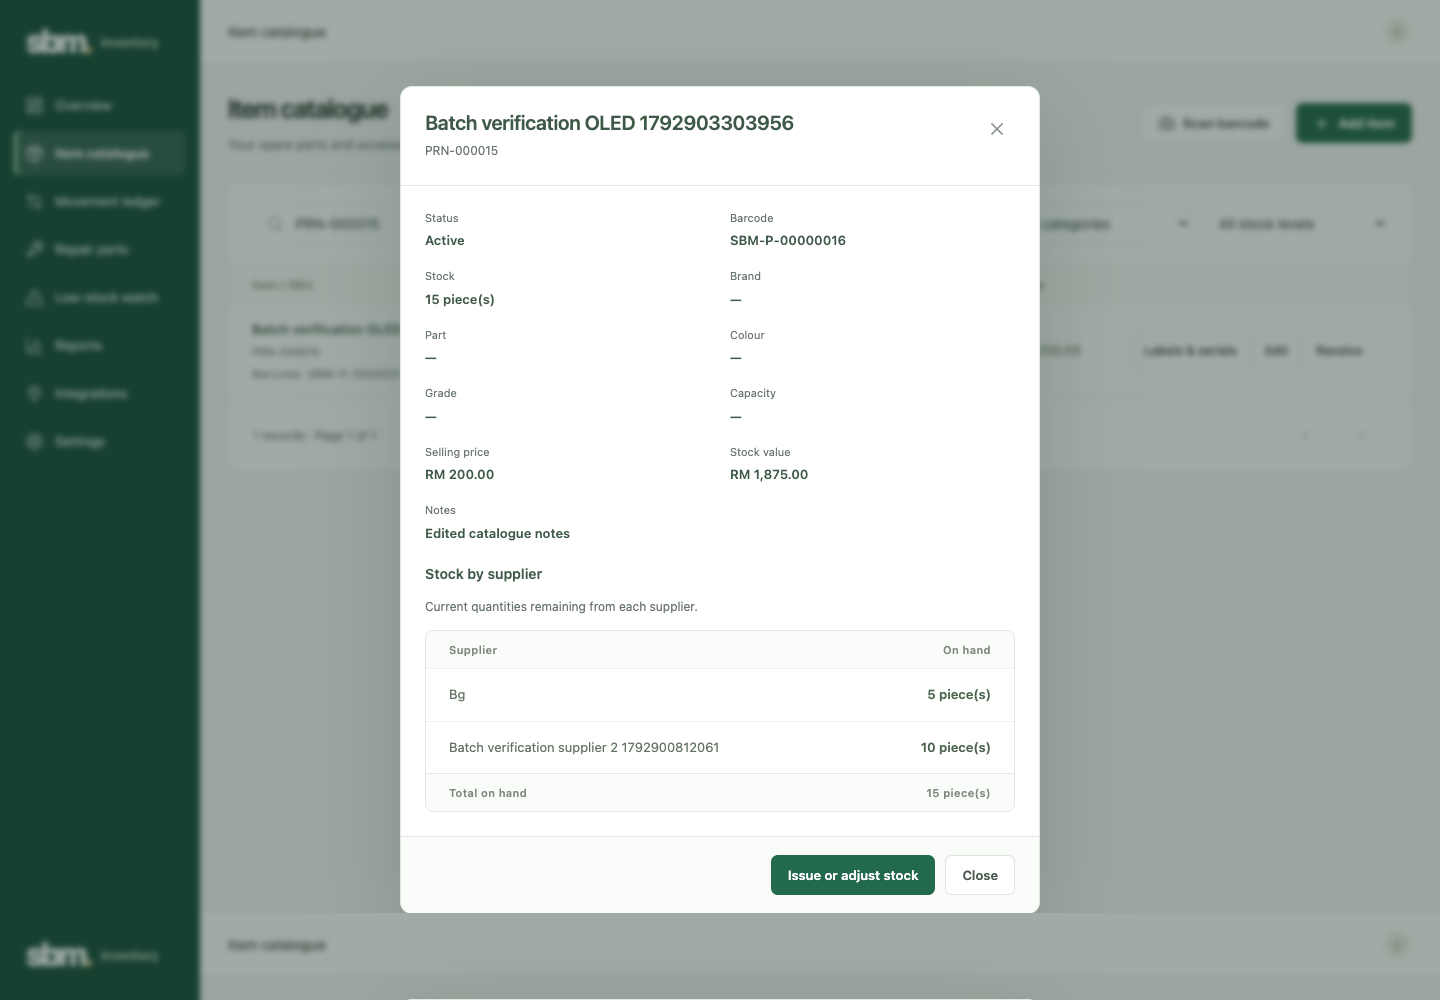
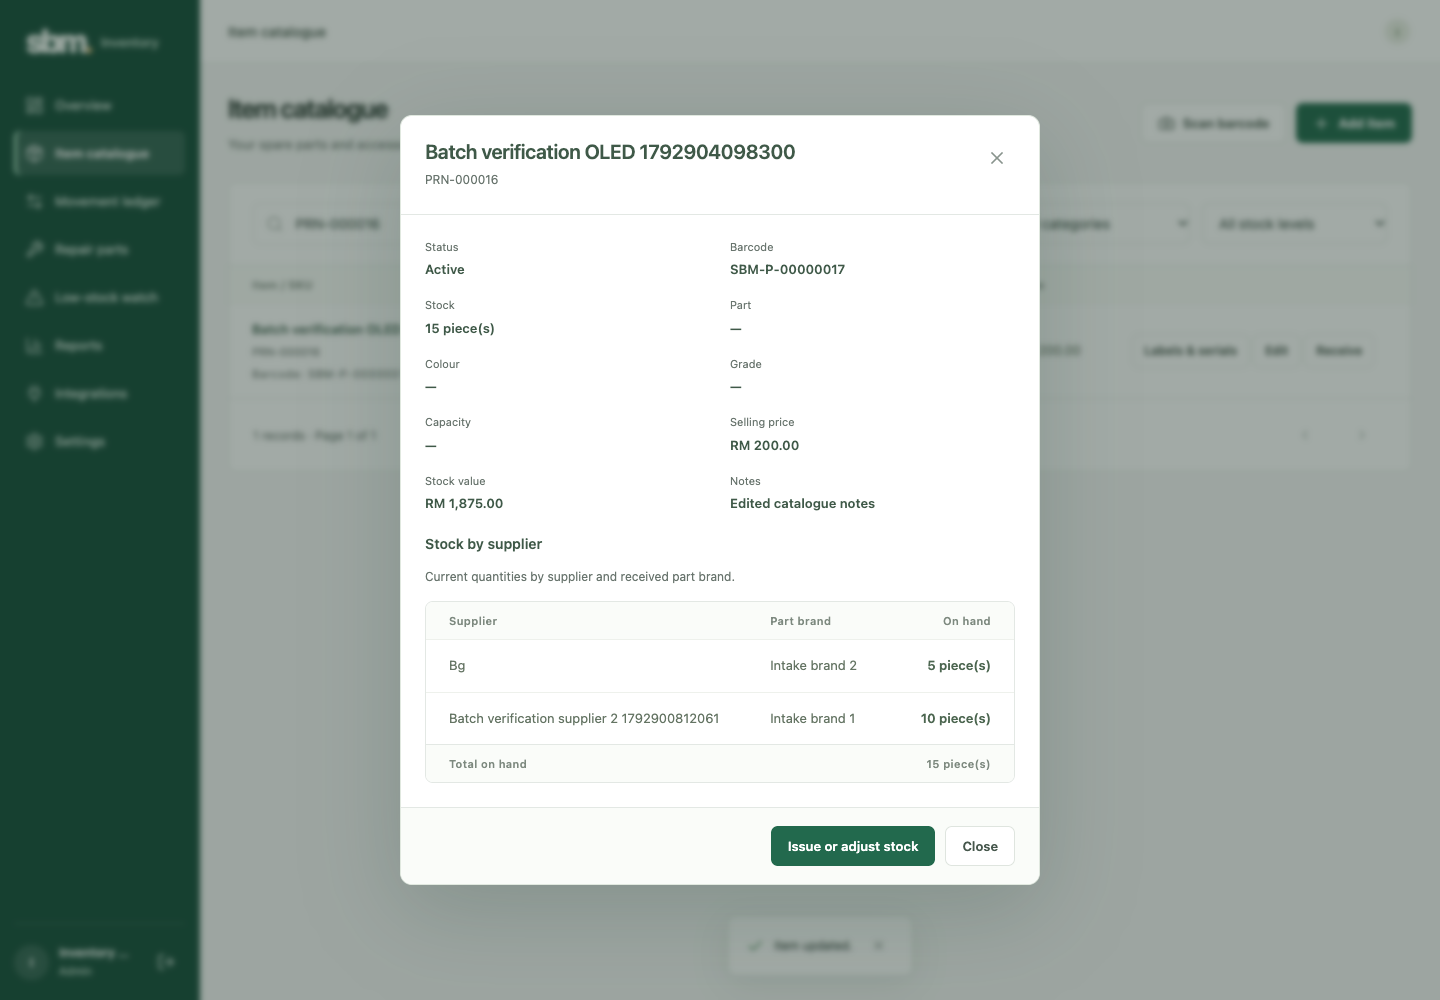
add brand in each supplier

diff --git a/frontend/src/components/ItemDetails.tsx b/frontend/src/components/ItemDetails.tsx
@@ -28,7 +28,6 @@ export function ItemDetails({
                 Status: product.active ? "Active" : "Inactive",
                 Barcode: product.barcode || "Not assigned",
                 Stock: `${product.stock} ${product.unit}(s)`,
-                Brand: product.brand,
                 Part: product.part_number,
                 Colour: product.colour,
                 Grade: product.grade,
@@ -48,7 +47,7 @@ export function ItemDetails({
             <section className="supplier-stock" aria-label="Stock by supplier">
               <h3>Stock by supplier</h3>
               <p className="muted">
-                Current quantities remaining from each supplier.
+                Current quantities by supplier and received part brand.
               </p>
               {product.supplier_stock.length ? (
                 <div className="table-scroll">
@@ -56,26 +55,35 @@ export function ItemDetails({
                     <thead>
                       <tr>
                         <th>Supplier</th>
+                        <th>Part brand</th>
                         <th>On hand</th>
                       </tr>
                     </thead>
                     <tbody>
-                      {product.supplier_stock.map((stock) => (
-                        <tr key={stock.supplier_id ?? "unknown"}>
-                          <td>
-                            {stock.supplier_name || "Supplier not recorded"}
-                          </td>
-                          <td>
-                            <strong>
-                              {stock.quantity} {product.unit}(s)
-                            </strong>
-                          </td>
-                        </tr>
-                      ))}
+                      {product.supplier_stock.flatMap((stock) =>
+                        stock.brands.map((entry) => (
+                          <tr
+                            key={JSON.stringify([
+                              stock.supplier_id,
+                              entry.brand,
+                            ])}
+                          >
+                            <td>
+                              {stock.supplier_name || "Supplier not recorded"}
+                            </td>
+                            <td>{entry.brand || "Brand not recorded"}</td>
+                            <td>
+                              <strong>
+                                {entry.quantity} {product.unit}(s)
+                              </strong>
+                            </td>
+                          </tr>
+                        )),
+                      )}
                     </tbody>
                     <tfoot>
                       <tr>
-                        <th>Total on hand</th>
+                        <th colSpan={2}>Total on hand</th>
                         <th>
                           {product.stock} {product.unit}(s)
                         </th>

diff --git a/frontend/e2e/stock-cost.spec.ts b/frontend/e2e/stock-cost.spec.ts
@@ -125,8 +125,14 @@ test("different intake suppliers retain their batch costs through FIFO usage and
       supplierStock.getByRole("row").filter({ hasText: suppliers[0].name }),
     ).toContainText("10 piece(s)");
     await expect(
+      supplierStock.getByRole("row").filter({ hasText: suppliers[0].name }),
+    ).toContainText("Intake brand 1");
+    await expect(
       supplierStock.getByRole("row").filter({ hasText: suppliers[1].name }),
     ).toContainText("5 piece(s)");
+    await expect(
+      supplierStock.getByRole("row").filter({ hasText: suppliers[1].name }),
+    ).toContainText("Intake brand 2");
     await expect(
       supplierStock.getByRole("row").filter({ hasText: "Total on hand" }),
     ).toContainText("15 piece(s)");
@@ -170,6 +176,9 @@ test("different intake suppliers retain their batch costs through FIFO usage and
     await expect(
       supplierStock.getByRole("row").filter({ hasText: suppliers[1].name }),
     ).toContainText("3 piece(s)");
+    await expect(
+      supplierStock.getByRole("row").filter({ hasText: suppliers[1].name }),
+    ).toContainText("Intake brand 2");
     await expect(
       supplierStock.getByRole("row").filter({ hasText: "Total on hand" }),
     ).toContainText("3 piece(s)");

diff --git a/frontend/e2e/barcode.spec.ts b/frontend/e2e/barcode.spec.ts
@@ -136,7 +136,12 @@ async function setup(
       body = {
         ...item,
         supplier_stock: [
-          { supplier_id: null, supplier_name: null, quantity: item.stock },
+          {
+            supplier_id: null,
+            supplier_name: null,
+            quantity: item.stock,
+            brands: [{ brand: null, quantity: item.stock }],
+          },
         ],
       };
     else if (route.request().method() === "POST")

diff --git a/frontend/src/api.ts b/frontend/src/api.ts
@@ -63,6 +63,7 @@ export type ItemDetail = Item & {
     supplier_id: number | null;
     supplier_name: string | null;
     quantity: number;
+    brands: { brand: string | null; quantity: number }[];
   }[];
 };
 export type Movement = {

diff --git a/backend/tests/Feature/StockCostTest.php b/backend/tests/Feature/StockCostTest.php
@@ -80,21 +80,38 @@ class StockCostTest extends TestCase
         $this->getJson('/api/v1/items/'.$this->item->id)->assertOk()
             ->assertJsonPath('stock', 7)
             ->assertJsonPath('supplier_stock', [
-                ['supplier_id' => $this->supplier->id, 'supplier_name' => 'Supplier A', 'quantity' => 1],
-                ['supplier_id' => $other->id, 'supplier_name' => 'Supplier B', 'quantity' => 4],
-                ['supplier_id' => null, 'supplier_name' => null, 'quantity' => 2],
+                ['supplier_id' => $this->supplier->id, 'supplier_name' => 'Supplier A', 'quantity' => 1, 'brands' => [['brand' => null, 'quantity' => 1]]],
+                ['supplier_id' => $other->id, 'supplier_name' => 'Supplier B', 'quantity' => 4, 'brands' => [['brand' => null, 'quantity' => 4]]],
+                ['supplier_id' => null, 'supplier_name' => null, 'quantity' => 2, 'brands' => [['brand' => null, 'quantity' => 2]]],
             ]);
         $this->record('manual_out', 1);
         $this->getJson('/api/v1/items/'.$this->item->id)->assertOk()
             ->assertJsonCount(2, 'supplier_stock')->assertJsonPath('supplier_stock.0.supplier_id', $other->id);
         $this->record('reversal', 4, ['movement_id' => $receiptB->id]);
         $this->getJson('/api/v1/items/'.$this->item->id)->assertOk()->assertJsonPath('stock', 2)
-            ->assertJsonPath('supplier_stock', [['supplier_id' => null, 'supplier_name' => null, 'quantity' => 2]]);
+            ->assertJsonPath('supplier_stock', [['supplier_id' => null, 'supplier_name' => null, 'quantity' => 2, 'brands' => [['brand' => null, 'quantity' => 2]]]]);
     }
 
     public function test_product_details_with_no_stock_have_an_empty_supplier_breakdown(): void
     {
         $this->getJson('/api/v1/items/'.$this->item->id)->assertOk()->assertJsonPath('stock', 0)->assertJsonPath('supplier_stock', []);
+    }
+
+    public function test_product_details_show_receipt_brands_per_supplier_and_remaining_quantities(): void
+    {
+        $other = Supplier::create(['name' => 'Supplier B']);
+        $this->record('receipt', 2, ['supplier_id' => $this->supplier->id, 'brand' => 'Brand A']);
+        $this->record('receipt', 3, ['supplier_id' => $this->supplier->id, 'brand' => 'Brand A']);
+        $this->record('receipt', 4, ['supplier_id' => $this->supplier->id, 'brand' => 'Brand B']);
+        $this->record('receipt', 1, ['supplier_id' => $other->id, 'brand' => 'Brand A']);
+        $issue = $this->record('manual_out', 3);
+        $this->getJson('/api/v1/items/'.$this->item->id)->assertOk()
+            ->assertJsonPath('supplier_stock.0.quantity', 6)
+            ->assertJsonPath('supplier_stock.0.brands', [['brand' => 'Brand A', 'quantity' => 2], ['brand' => 'Brand B', 'quantity' => 4]])
+            ->assertJsonPath('supplier_stock.1.brands', [['brand' => 'Brand A', 'quantity' => 1]]);
+        $this->record('reversal', 3, ['movement_id' => $issue->id]);
+        $this->getJson('/api/v1/items/'.$this->item->id)->assertOk()
+            ->assertJsonPath('supplier_stock.0.brands.0.quantity', 5);
     }
 
     public function test_fifo_spans_batches_and_records_exact_total_instead_of_rounding_a_unit_average(): void
@@ -220,7 +237,7 @@ class StockCostTest extends TestCase
         $this->getJson('/api/v1/items/'.$this->item->id.'/batches')->assertForbidden();
         $this->getJson('/api/v1/items')->assertJsonMissingPath('data.0.cost')->assertJsonMissingPath('data.0.stock_value');
         $this->getJson('/api/v1/items/'.$this->item->id)->assertJsonMissingPath('cost')->assertJsonMissingPath('stock_value')
-            ->assertJsonPath('supplier_stock', [['supplier_id' => null, 'supplier_name' => null, 'quantity' => 1]])
+            ->assertJsonPath('supplier_stock', [['supplier_id' => null, 'supplier_name' => null, 'quantity' => 1, 'brands' => [['brand' => null, 'quantity' => 1]]]])
             ->assertJsonMissingPath('supplier_stock.0.unit_cost');
         $this->getJson('/api/v1/dashboard')->assertJsonPath('valuation', null);
     }

diff --git a/backend/app/Http/Controllers/CatalogueController.php b/backend/app/Http/Controllers/CatalogueController.php
@@ -85,10 +85,20 @@ class CatalogueController
     {
         $detail = self::present($item->load(['category', 'supplier', 'phoneModels'])->loadSum('batches as stock_value', DB::raw('remaining_quantity::bigint * unit_cost')), $r->user()->role === 'admin');
         $detail['supplier_stock'] = $item->batches()
-            ->select('supplier_id')->selectRaw('SUM(remaining_quantity) AS quantity')
-            ->where('remaining_quantity', '>', 0)->groupBy('supplier_id')->orderBy('supplier_id')
+            ->leftJoin('movements as receipt', 'receipt.id', '=', 'stock_batches.receipt_movement_id')
+            ->select('stock_batches.supplier_id', 'receipt.brand')
+            ->selectRaw('SUM(stock_batches.remaining_quantity) AS quantity')
+            ->where('stock_batches.remaining_quantity', '>', 0)
+            ->groupBy('stock_batches.supplier_id', 'receipt.brand')
+            ->orderBy('stock_batches.supplier_id')->orderBy('receipt.brand')
             ->with('supplier:id,name')->get()
-            ->map(fn ($batch) => ['supplier_id' => $batch->supplier_id, 'supplier_name' => $batch->supplier?->name, 'quantity' => (int) $batch->quantity]);
+            ->groupBy(fn ($batch) => $batch->supplier_id ?? 'unknown')
+            ->map(fn ($batches) => [
+                'supplier_id' => $batches->first()->supplier_id,
+                'supplier_name' => $batches->first()->supplier?->name,
+                'quantity' => (int) $batches->sum('quantity'),
+                'brands' => $batches->map(fn ($batch) => ['brand' => $batch->brand, 'quantity' => (int) $batch->quantity])->values(),
+            ])->values();
 
         return $detail;
     }

diff --git a/README.md b/README.md
@@ -73,7 +73,7 @@ Run `cd backend && php artisan migrate` before using this feature on another ins
 
 ## Batch costs and suppliers
 
-Click a product name in the catalogue to open its details and see current quantities remaining from each supplier, combined across all its batches. Stock with no recorded supplier is shown separately. The breakdown refreshes each time the details open and excludes exhausted stock. Create or edit a product using catalogue details and selling price. Choose the actual supplier in **Receive stock** and enter a purchase cost and optional **Part brand** on each item row. Supplier, intake cost and part brand are entered during receiving rather than in the product form. Each receipt keeps its own part brand in the immutable movement ledger and movement CSV exports; later deliveries do not overwrite earlier brands or the legacy product brand.
+Click a product name in the catalogue to open its details and see each supplier’s received part brands and their current remaining quantities, combined across batches of the same supplier and brand. Stock with no recorded supplier is shown separately. The breakdown refreshes each time the details open and excludes exhausted stock. Create or edit a product using catalogue details and selling price. Choose the actual supplier in **Receive stock** and enter a purchase cost and optional **Part brand** on each item row. Supplier, intake cost and part brand are entered during receiving rather than in the product form. Each receipt keeps its own part brand in the immutable movement ledger and movement CSV exports; later deliveries do not overwrite earlier brands or the legacy product brand.
 
 Quantity-only issues, sales, repair usage and stock count losses consume FIFO batches in posting order. A backdated receipt does not change already posted allocations. Scanned units consume their own batch, even when a newer unit is selected. Mixed-cost movements retain exact integer totals in the movement ledger and CSV reports; their single unit cost is blank rather than a rounded average. Positive count adjustments create a new batch using the supplied cost or current default.
 
